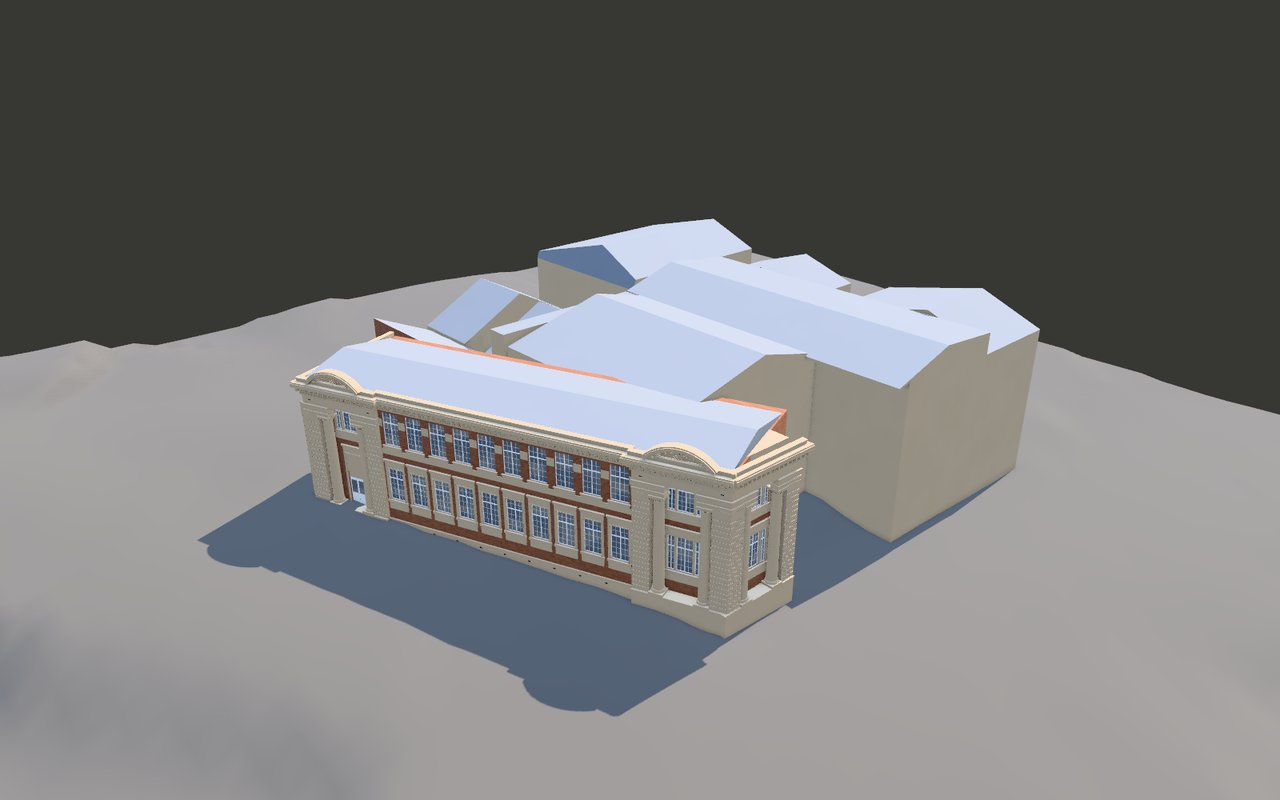
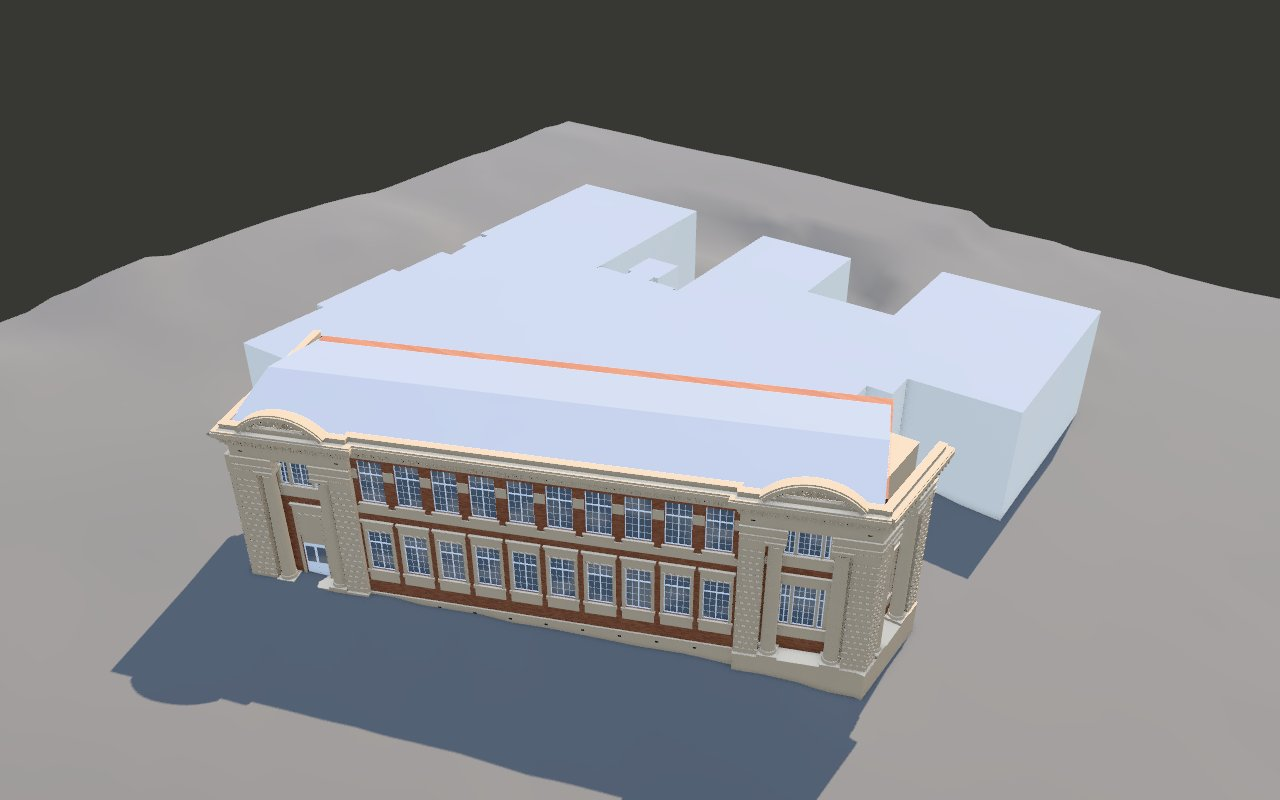
Put Old Choral Hall's street range on the site in place of block 104
site: true, and place writes it; also stays empty (95.5% of block 104 under the model, no
other block at all). roofGrey is a roof in LIGHT_ROLE. The landmark's README, CONTRACT and
ART_BIBLE say what is drawn in detail (the range) and what is the map's estimated block (the
rest), with the numbers of refine compare; two of its renders are taken again with the rest as
the map's block. The README's Known limitations, landmarks section, sources table and What's
new, the CHANGELOG, and About's words (brick and painted render; a building under works drawn in
detail only where the photographs show it as it stands) say the same.

diff --git a/src/scene/landmarks.ts b/src/scene/landmarks.ts
@@ -66,6 +66,7 @@ export interface LightMaterials {
 const LIGHT_ROLE: Record<string, keyof LightMaterials> = {
   roof: "roof",
   roofPale: "roof",
+  roofGrey: "roof",
   glass: "glass",
   glassPale: "glass",
   iron: "openings",

diff --git a/landmarks/old-choral-hall/README.md b/landmarks/old-choral-hall/README.md
@@ -3,27 +3,30 @@
 Old Choral Hall (building 104 of the University of Auckland's campus map), at the corner of Symonds
 Street and Grafton Road, drawn in three.js from code alone and sized by the LINZ 2024 LiDAR, by a lead
 agent and a team of agents (October 2026). Every source shows the building during building works (see "The sources: works in
-progress"), except the panoramas of 2022-09 of its south-west range. So that range, with its two end
-pavilions, is drawn in detail as those panoramas show it, and the rest of the building plainly, at
-the LiDAR's sizes, with no windows or ornament. The kit, the pipeline and the viewer are shared by
-every landmark: [`../README.md`](../README.md).
+progress"), except the panoramas of its south-west range on Symonds Street from before the works
+(2022-09) and after them (2024-10). So only that range, with its two end pavilions, is drawn in
+detail as those panoramas show it. The rest of the building keeps the campus map's estimated block
+until the works end: the maintainer's choice of 2026-10-23 (see "On the site"). The kit, the
+pipeline and the viewer are shared by every landmark: [`../README.md`](../README.md).
 
 - Look at it: `http://localhost:8765/landmarks/pipeline/viewer/index.html?landmark=old-choral-hall&view=orbit`
-  with the repository root served on port 8765. It is not on the site.
+  with the repository root served on port 8765. The site draws it in place of block 104.
 - Run its pipeline: `landmarks/pipeline/run.sh old-choral-hall [stage ...]`.
 
 | File | What it is |
 | --- | --- |
-| `config/old-choral-hall.json` | the building (104), the LiDAR and aerial tiles, the frame, the ground and the door, the eleven Street View panoramas (`streetview.pano_ids`), the viewer's light |
-| `placement.json` | where it stands on the campus map (written by the `place` stage); not on the site |
-| `model.js` | assembles the parts: `southwest`, `massing` |
-| `parts/` | one file per part (`southwest.js`: the south-west range and its pavilions; `massing.js`: the rest, plainly) and `common.js` (the sizes measured in the LiDAR) |
+| `config/old-choral-hall.json` | the building (104), `site: true`, the LiDAR and aerial tiles, the frame, the ground and the door, the eleven Street View panoramas (`streetview.pano_ids`), the viewer's light |
+| `placement.json` | where it stands on the campus map (written by the `place` stage); on the site |
+| `model.js` | assembles the parts: `southwest`, `rest` |
+| `parts/` | one file per part (`southwest.js`, `southwest_range.js`, `southwest_kit.js`: the south-west range and its pavilions, in detail; `rest.js`: the rest, as the campus map's estimated block) and `common.js` (the range's frame and the footpaths, measured in the LiDAR) |
 | `docs/` | the rules the agents worked to: `CONTRACT.md`, `ART_BIBLE.md` |
 | `landscape.js` | the ground round it, for the viewer only: the LiDAR's ground on a 2.5 m grid |
 
 Renders of the model (no photograph): [`docs/landmarks/old-choral-hall-symonds.jpg`](../../docs/landmarks/old-choral-hall-symonds.jpg)
 (the south-west range from Symonds Street), [`-corner.jpg`](../../docs/landmarks/old-choral-hall-corner.jpg)
-(the corner pavilion) and [`-above.jpg`](../../docs/landmarks/old-choral-hall-above.jpg).
+(the range from off the corner, the corner pavilion at the right) and
+[`-above.jpg`](../../docs/landmarks/old-choral-hall-above.jpg) (the range, and the rest as the map's
+block behind it).
 
 ## The frame
 
@@ -64,12 +67,59 @@ cream dressings between two cream pavilions with giant columns; and in 2024-10 (
 pavilion and the range stand restored, out of their scaffolds, as they were. The LiDAR measured that
 range's roof and parapet (a scaffold deck stood 1.7 m out from the parapet in May 2024, classed as
 vegetation), and its plan and parapet agree with those panoramas. That range is drawn in detail; the
-rest is drawn plainly, as the rules say for what no photograph shows.
+rest keeps the campus map's estimated block (see "On the site").
 
 **What would let the rest be drawn**: Google panoramas on Grafton Road taken after the works (newer
 than 2024-08), for the street front and its look; and, for the roofs, LiDAR flown after the works
 (another LiDAR set is a new data source, for the maintainer). With newer panoramas alone the walls
 could be drawn and checked, but the roofs of the wrapped blocks would stay unmeasured.
+
+## On the site: the street range only (2026-10-23)
+
+The maintainer chose to put on the site now only the south-west range on Symonds Street, the part
+that panoramas show before the works (2022-09) and after them (2024-10). How to draw the whole
+building is the maintainer's to decide later. So the model is two parts:
+
+- **`southwest`**: the range and its two pavilions as round 1 drew them (below), at the measured
+  sizes.
+- **`rest`** (`parts/rest.js`): the rest of building 104 as the campus map draws it. Its footprint is
+  block 104's outline in `public/data/campus.json` (the config's `building.outline`), taken into the
+  view frame through `placement.json`, less the part on the range's side of the range's inner wall
+  (x' ≤ −13.0 in the range's frame: the range and its corner pavilion stand wholly there, and the
+  map's outline runs up to 3 m beyond the range's face toward Symonds Street). Its top is flat and
+  stands where the map's block top stands: the map draws block 104 as 2 storeys of 3.6 m (7.2 m,
+  `heightSource` "floor-count", `src/shared/massing.ts`) on its footing (`terrain.ts`: the DEM at
+  the outline's middle, 38.60 m), so 45.80 m, which is y 8.97 over the DEM at the door (36.83 m).
+  Its walls are plain and go down to y −2.0, below the DEM everywhere under it (its lowest is
+  y −1.41). Nothing in it comes from the LiDAR or the photographs: the scaffold era's roofs, heights
+  and shapes stay out. Round 1's LiDAR-measured rest (`parts/massing.js`, commit 83c449d) is not
+  drawn.
+- **Its finish.** In the walker views the rest's walls are `plain`: no texture and no shader, in the
+  map's own wall colour for a teaching building by day (`0xfaf1dc`). That is the plainest finish
+  that is honest: it claims no surface, as the map's block claims none, where cream render or brick
+  would claim one that no photograph shows as it stands. Its flat roof is `roofGrey`, the roofs'
+  grey in the 2023 aerial. On the map the light form draws both in the map's colours (`roofGrey` is
+  a roof in `LIGHT_ROLE`, `src/scene/landmarks.ts`).
+
+What this gives (2026-10-23, against round 1):
+
+- From above, the model covers 95.5% of block 104 on a 0.5 m grid (the 4.5% it does not cover is
+  on the range's side of the map's outline, most of it beyond the range's face), and no other block
+  of the campus map at all (136 Chiller: 0%), so `building.also` stays empty.
+- The range's heights are round 1's (below), against the LiDAR's points over the range without the
+  plane trees' crowns: parapet 14.30 m against 14.39 (the median along its outer edge), ridge 15.10
+  against 15.15 (the median in a 1 m band along it). The model's highest point, 15.50 m, is the
+  pavilions' pediments, sized from the photographs: over them the LiDAR has only the plane trees'
+  crowns, 14.3 to 24 m. The rest's top is y 8.97, the map's block top to 0.01 m.
+- 19,413 triangles in 7 draw calls (`render`, `paint`, `brick`, `void`, `glassPale`, `roofGrey`,
+  `plain`); the rest is 119 of them.
+- Against the photographs (`refine compare`): the nine views of 2022-09, which show the range, keep
+  their refined cameras and an IoU of 0.58 to 1.0 (mean 0.883); C1kG (2024-10) falls from 0.72,
+  0.83 and 0.98 to 0.38, 0.61 and 0.62, because behind the corner pavilion it sees the wrapped
+  middle and north-east blocks, up to 16 m, where the map's block is 9 m high. The luma median of
+  the building in the nine 2022-09 views is 126 in the photographs and 134 drawn. The Grafton Road
+  views of 2024-08 show the wraps, which the map's block does not match: over all 33 views the mean
+  IoU is 0.667, and the refine stage now corrects 4 panoramas' cameras, not 7.
 
 ## The first rough model (superseded)
 
@@ -133,7 +183,8 @@ rounds; the lead finished the round.
   north-west end.
 - **The rest** (`parts/massing.js`; the rest agent): every other block fitted to the LiDAR's roof
   planes (rms 0.02-0.05 m), plainly: no windows, no ornament. The scaffold decks of May 2024 are left
-  out (the 11.2 m deck in the street front's recess, lifts along the back).
+  out (the 11.2 m deck in the street front's recess, lifts along the back). Not drawn since
+  2026-10-23 (see "On the site"); the file is in commit 83c449d.
 - **The look** (the lead): brick and cream render as shaders in the kit, measured against the
   2022-09 views in shade; the sun of those panoramas (config `light`); and, for the viewer only, the
   LiDAR's ground (`landscape.js`), so that the plinth meets the footpaths, which rise about 3 m from

diff --git a/README.md b/README.md
@@ -40,14 +40,15 @@ It is built to answer two questions a student actually has:
 
 ## What's new
 
+- **2026-10-23:** near Old Choral Hall the map draws its range on Symonds Street in detail, in red
+  brick and cream render from a walker's height; the rest of the building, under building works,
+  keeps the map's estimated block.
 - **2026-10-22:** near Old Government House the map draws it in detail, in painted timber from a
   walker's height; the floor of Nicholls Lane ECE, an early childhood centre, is left blank, as every
   childcare centre's is; Firefox 93 to 113 show the Clock Tower as blocks.
 - **2026-10-21:** near the Clock Tower the map draws it in detail, from code and to its measured
   sizes: in the map's colours on the map, and in stone, glass and slate from a walker's height. A
   click still opens its floors.
-- **2026-10-19:** on a slow screen a walker view that stands still is drawn once, not again and
-  again.
 
 Everything, with its pull request, is in the [changelog](CHANGELOG.md).
 
@@ -226,8 +227,20 @@ of 0.95, and in 95% of the cells its height is within 0.5 m of the LiDAR's.
 | ![Old Government House from its lawn, the garden front, drawn from code](docs/landmarks/old-government-house-front.jpg) | ![The south-east end and the garden front, drawn from code](docs/landmarks/old-government-house-end.jpg) |
 | ![Old Government House on the map, drawn from code in the map's colours](docs/landmarks/old-government-house-map.jpg) | ![Old Government House from its lawn, through the walker's eyes](docs/landmarks/old-government-house-eyes.jpg) |
 
+The third is Old Choral Hall (104), at the corner of Symonds Street and Grafton Road. Every source
+shows it during building works, so only its range on Symonds Street is drawn in detail: ten bays of
+red brick with cream dressings between two pavilions with giant columns, as panoramas show it before
+the works and after. Seen from the three panoramas of 2022-09, its outline covers the building's
+with an IoU of 0.58 to 1.0. The rest of the building keeps the map's estimated block until the
+works end.
+
+| | |
+| --- | --- |
+| ![Old Choral Hall's range on Symonds Street, drawn from code](docs/landmarks/old-choral-hall-corner.jpg) | ![Old Choral Hall from above: the range in detail, the rest as the map's estimated block](docs/landmarks/old-choral-hall-above.jpg) |
+
 The site draws each landmark in place of its buildings' blocks (the Clock Tower in place of buildings
-105 and 105S, its south range; Old Government House in place of 102) when the camera comes near: on
+105 and 105S, its south range; Old Government House in place of 102; Old Choral Hall in place of
+104) when the camera comes near: on
 the map in the map's colours, and from a walker's height in its own materials on a computer with a
 graphics card. The blocks still answer a click and open on their floors. The
 geometry and the textures are made in a worker, the first time they are wanted, so that the page
@@ -398,8 +411,8 @@ an estimate of 3.6 m a floor, and its windows and roof rims are drawn by rule.
 | [OpenStreetMap](https://www.openstreetmap.org/copyright) via the Overpass API | Surrounding buildings, streets, paths, parks, trees | © OpenStreetMap contributors, [Open Database License 1.0](https://opendatacommons.org/licenses/odbl/1-0/). The snapshot in `data/raw/osm/` and the derived `public/data/context.json` are under the same licence. |
 | [University of Auckland Calendar 2026](https://www.auckland.ac.nz/en/about-us/about-the-university/the-university/official-publications/university-calendar/current-calendar.html) | Semester dates, breaks, holidays; list of subject codes | © University of Auckland. Dates and codes are quoted as facts with a link to the source. |
 | [LINZ 8 m Digital Elevation Model (2012)](https://data.linz.govt.nz/layer/51768-nz-8m-digital-elevation-model-2012/), via the [AWS Terrain Tiles](https://registry.opendata.aws/terrain-tiles/) | The height of the ground | New Zealand terrain data © Land Information New Zealand and the New Zealand Government, [CC BY 3.0 NZ](https://creativecommons.org/licenses/by/3.0/nz/). The tiles also hold SRTM and GMTED2010 data (U.S. Geological Survey) and ETOPO1 (U.S. NOAA) at the coast. The tiles in `data/raw/terrain/` and the derived `public/data/terrain/` are under the same terms. |
-| [Auckland Part 1 LiDAR point cloud (2024)](https://doi.org/10.5069/G9HH6H8T), tiles `CL2_BA32_2024_1000_*`, captured by Woolpert for Regional Software Holdings Limited and distributed by OpenTopography and LINZ | The sizes of the Clock Tower (buildings 105 and 105S) and Old Government House (102), measured for their models in `landmarks/clocktower/` and `landmarks/old-government-house/` | Sourced from LINZ and licensed by Regional Software Holdings Limited for re-use under [CC BY 4.0](https://creativecommons.org/licenses/by/4.0/) ([LINZ's attribution page](https://www.linz.govt.nz/products-services/data/licensing-and-using-data/attributing-elevation-or-aerial-imagery-data)). Only the measured sizes are published, in the landmark's config and `parts/common.js`; the tiles stay on the computer that fetched them. |
-| Google Street View, through the Map Tiles API | Photographs the models of the Clock Tower and Old Government House were compared with while they were drawn | © Google. Used as references only: never published, traced or sampled, and kept on the computer that fetched them. |
+| [Auckland Part 1 LiDAR point cloud (2024)](https://doi.org/10.5069/G9HH6H8T), tiles `CL2_BA32_2024_1000_*`, captured by Woolpert for Regional Software Holdings Limited and distributed by OpenTopography and LINZ | The sizes of the Clock Tower (buildings 105 and 105S), Old Government House (102) and the range of Old Choral Hall (104) on Symonds Street, measured for their models in `landmarks/clocktower/`, `landmarks/old-government-house/` and `landmarks/old-choral-hall/` | Sourced from LINZ and licensed by Regional Software Holdings Limited for re-use under [CC BY 4.0](https://creativecommons.org/licenses/by/4.0/) ([LINZ's attribution page](https://www.linz.govt.nz/products-services/data/licensing-and-using-data/attributing-elevation-or-aerial-imagery-data)). Only the measured sizes are published, in the landmark's config and `parts/common.js`; the tiles stay on the computer that fetched them. |
+| Google Street View, through the Map Tiles API | Photographs the models of the Clock Tower, Old Government House and Old Choral Hall were compared with while they were drawn | © Google. Used as references only: never published, traced or sampled, and kept on the computer that fetched them. |
 | [Open-Meteo](https://open-meteo.com/) | Current weather in Auckland (temperature, cloud, rain, wind), fetched by the visitor's browser | [CC BY 4.0](https://open-meteo.com/en/licence) |
 | ["Animated Human" by Quaternius](https://opengameart.org/content/animated-human-low-poly) | The walker's body and its idle, walk and run, in `public/models/walker.glb` | [CC0 1.0](https://creativecommons.org/publicdomain/zero/1.0/), public domain. Downloaded once, on 2026-10-16. |
 
@@ -417,8 +430,14 @@ If you represent the University and would like something changed or removed, ple
 - **Building heights are estimated and windows are drawn by rule.** The ground's heights come from
   the LINZ 8 m elevation model, drawn from contours: smooth, peaks a few metres low. A building stands
   at the ground under its middle, with a footing of up to 4 m on a slope. The Clock Tower (105 and
-  105S) and Old Government House (102) are the exceptions: their models are drawn to sizes measured
-  from LiDAR.
+  105S), Old Government House (102) and the range of Old Choral Hall (104) on Symonds Street are the
+  exceptions: their models are drawn to sizes measured from LiDAR.
+- **Only Old Choral Hall's range on Symonds Street is drawn in detail.** Every source shows the
+  building during building works: the LiDAR of May 2024 has scaffold decks over its north-east
+  blocks, and the newest Street View panoramas show them wrapped. Only the south-west range and its
+  two pavilions are seen as they stand, before the works (2022-09) and after them (2024-10). The
+  rest of the building keeps the map's estimated block (two storeys, flat-topped, plain walls) until
+  the works end, so it is lower than the building is.
 - **Old Government House is seen in only two photographs.** Trees hide it from the other Street View
   panoramas near it, and the two see the upper storey of its south-east end. Its sizes and roofs
   come from the LiDAR. What no photograph shows is drawn plainly or after the parts the photographs

diff --git a/landmarks/old-choral-hall/docs/CONTRACT.md b/landmarks/old-choral-hall/docs/CONTRACT.md
@@ -6,13 +6,18 @@ shared viewer, `../pipeline/viewer/index.html`. No external 3D models or image t
 and texture is generated in code. Photographs are **references only**; nothing is traced or sampled
 from them into the model.
 
-## What this round draws, and why only that
+## What is drawn, and why only that
 Every source shows the building during works (README.md, "The sources: works in progress"): the LiDAR was flown
 on 18 May 2024 with the north-east blocks scaffolded and wrapped, and the Grafton Road panoramas of
 2024-08 show the wraps. Only the **south-west range and its two end pavilions** are seen as they are,
-in panoramas of 2022-09 taken before the works, and the LiDAR measured them unwrapped. So this round
-draws that range in detail, and **everything else plainly** at the LiDAR's sizes: no windows, no
-ornament where no photograph shows a face.
+in panoramas of 2022-09 taken before the works and of 2024-10 after them, and the LiDAR measured them
+unwrapped. So that range is drawn in detail (`southwest`). **Everything else is the campus map's
+estimated block** (`rest`), by the maintainer's choice of 2026-10-23: block 104's outline from
+`public/data/campus.json` less the range's side, flat-topped at the map's block top, plain walls.
+Nothing measured from the LiDAR or seen in a photograph outside the range goes into `rest`. Round 1
+drew the rest at the LiDAR's sizes (`parts/massing.js`, in the history at 83c449d); it is not drawn,
+because those sizes are partly the scaffolds'. How to draw the whole building after the works is the
+maintainer's to decide.
 
 ## Frame and sizes
 - View frame, metres: **x** to the right as seen from Grafton Road on the south-east, **y** up from
@@ -21,7 +26,12 @@ ornament where no photograph shows a face.
 - `parts/common.js` (the lead's) holds the shared sizes: `GROUND` (the footpaths: the front falls from
   +0.8 to −0.85 m along x; the south-west footpath rises from +1.0 m at the corner to +2.9 m at the
   back), `SW` (the south-west range, turned 22.25° from the frame, with `swMatrix()` and `swPoint()`
-  to draw it in its own frame x', z'), `FRONT`, `RANGES`, `NE`, `BACK`.
+  to draw it in its own frame x', z'). The rest's LiDAR sizes of round 1 (`FRONT`, `RANGES`, `NE`,
+  `BACK`) are left out with it.
+- `parts/rest.js` holds the map's block: `OUTLINE` (building 104's outline in `campus.json`, taken
+  into the view frame through `placement.json`), `MAP_BLOCK` (its footing 1.77 m above the DEM at the
+  door, and its 7.2 m: 2 storeys of 3.6 m) and `TOP` (y 8.97). If the door or the placement moves,
+  work `OUTLINE` and `MAP_BLOCK.base` out again.
 - The LiDAR: `data/old-choral-hall_pts.npy` (x, y, z, class in local NZTM metres; class 6 building,
   2 ground, 5 high vegetation). Its frame: `data/old-choral-hall_frame.json` (`centre`; `axis` = −x;
   `toStreet` = +z; ground 37.7). Beware: along the south-west side the plane trees' crowns, 17.5 to
@@ -65,13 +75,14 @@ ornament where no photograph shows a face.
 | --- | --- |
 | lead | `model.js`, `parts/common.js`, `config/`, `docs/`, `README.md`, the look (`../kit/materials.js`) |
 | southwest | `parts/southwest.js`, new `parts/southwest_*.js`: the south-west range, its two end pavilions and the corner pavilion's face on Grafton Road |
-| rest | `parts/massing.js`, new `parts/massing_*.js`: everything else (the gabled ranges, the north-east wing, the blocks behind, the low block in the recess), plainly |
+| rest | `parts/rest.js`: everything else, as the campus map's estimated block until the works end; a later round replaces this file |
 
 - `../kit/` and `../pipeline/` are shared by every landmark: do not edit them; ask the lead. The
   `Builder` (`../kit/gothic.js`) merges everything into one mesh per material name. Names for this
   building: `brick` (red brick with pale joints), `render` (cream painted render), `paint` (white
-  frames and bars), `glassPale` (panes), `roofGrey` (mid-grey roofs), `void` (dark openings). A name
-  the kit does not have makes the part fail.
+  frames and bars), `glassPale` (panes), `roofGrey` (mid-grey roofs), `void` (dark openings), `plain`
+  (the rest's walls: no texture, no shader, the map's wall colour). A name the kit does not have makes
+  the part fail.
 - Parts are added to `model.js` by the lead; tell the lead the name and file of a new part.
 
 ## Budget (tier 1: the site runs in a browser, phones too)
@@ -85,7 +96,8 @@ ornament where no photograph shows a face.
 - Determinism: same code, same picture. Seeded randomness only, no `Math.random`, no `Date`.
 - Real sizes first: the LiDAR is the truth for positions and heights; the photographs for what the
   surfaces look like. Where they disagree, say so in the report.
-- What no photograph and no measurement shows is drawn plainly, not invented.
+- What no photograph and no measurement shows is drawn plainly, not invented. Where every source shows
+  the building during works, the map's estimated block stands in for it (`rest`).
 - Do not commit; the lead commits after reviewing.
 - Finish with a short report: what you built, files, numbers (triangles, build ms), before/after
   strips (paths), measurements, what still differs and what you would do next.

diff --git a/landmarks/old-choral-hall/docs/ART_BIBLE.md b/landmarks/old-choral-hall/docs/ART_BIBLE.md
@@ -5,8 +5,8 @@ reads as the same building as in the Street View panoramas of 2022-09, before th
 its sizes from the LiDAR. Look at the photographs yourself, at full size: `nAxE…_*.jpg` (the range and
 its north-west pavilion), `Uype…_*.jpg` (the range and the corner pavilion at Grafton Road),
 `e8T_…_*.jpg`, and `C1kG…` (2024-10: the corner pavilion restored, out of its scaffold) for the corner. This page says what matters most, and only what they
-show. The rest of the building is drawn plainly: no photograph shows it as it stands (README.md, "The
-sources: works in progress").
+show. The rest of the building keeps the campus map's estimated block: no photograph shows it as it
+stands (README.md, "The sources: works in progress").
 
 ## The south-west range (what nAxE and Uype show)
 - **Two storeys of red brick with cream dressings**, Edwardian classical. A long range of about a dozen
@@ -26,10 +26,17 @@ sources: works in progress").
   between the columns and the pilasters.
 - Plane trees stand along the footpath and hide parts of the range: they are not part of the model.
 
-## The rest (drawn plainly)
-- The middle ranges, the north-east wing and the blocks behind: walls and gabled roofs at the LiDAR's
-  sizes, in plain cream render and pale grey roofs, with no windows or ornament: no reference shows
-  their faces as they are (2024-08: wrapped and scaffolded; the 2023 aerial shows grey hipped roofs).
+## The rest (the map's estimated block)
+- The middle ranges, the north-east wing and the blocks behind are not drawn as they look: every source
+  shows them during the works (2024-08: wrapped and scaffolded; the LiDAR of May 2024: the scaffolds'
+  temporary roofs). Until the works end they keep the campus map's block (maintainer, 2026-10-23):
+  block 104's outline less the range's side, flat-topped where the map's block top is (y 8.97), plain
+  walls with no windows or ornament.
+- Its finish says that it is an estimate: walls in `plain` (no texture and no shader, so no surface is
+  claimed, in the map's own wall colour for a teaching building by day), the flat roof in `roofGrey`
+  (the roofs' grey in the 2023 aerial). On the map the light form draws both in the map's colours.
+- The range's inner side above the rest's roof shows the range's brick mass: in the building the
+  taller middle range stands against it there.
 
 ## The light (match the 2022-09 photographs)
 - A spring morning, the sun high in the north-east (in nAxE it stands almost straight beyond the
@@ -43,6 +50,7 @@ sources: works in progress").
 - `render`: cream painted render for columns, pilasters, bands, architraves, cornices and parapets.
 - `paint`: the white-grey window frames and glazing bars; `glassPale` for the panes.
 - `roofGrey`: the roofs, mid-grey metal as in the 2023 aerial (luma about 110-150); `void` for dark openings and doorways.
+- `plain`: the rest's walls (the map's estimated block): no texture, no shader.
 
 ## Never
 - Nothing traced or sampled from the photographs (no projected textures, no image files).

diff --git a/CHANGELOG.md b/CHANGELOG.md
@@ -14,6 +14,22 @@ A change to what the site does or shows adds its line here, and the README's
   the Classes API key arrives, so that what the timetable and the catalogue each supply can be
   settled with both in hand.
 
+## 2026-10-23
+
+### Added
+
+- **Old Choral Hall's range on Symonds Street drawn in detail.** Near Old Choral Hall (building
+  104) the map now draws its south-west range from code, to sizes measured from the LiDAR survey:
+  ten bays of red brick with cream dressings between two pavilions with giant columns in antis,
+  rusticated pilasters and arched pediments, and the corner pavilion's face on Grafton Road. Every
+  source shows the rest of the building during building works, so the rest keeps the map's
+  estimated block: two storeys, flat-topped, plain walls. On the map it all has the map's colours.
+  From a walker's height the range is drawn in brick and cream render, with glass and grey roofs, on
+  a computer with a graphics card, and in the map's colours on phones and on computers without one.
+  Its block still answers a click and opens on its floors. About now names brick and painted render
+  among the landmarks' materials, and says that a building under works is drawn in detail only
+  where the photographs show it as it stands (#PR).
+
 ## 2026-10-22
 
 ### Added

diff --git a/landmarks/README.md b/landmarks/README.md
@@ -176,9 +176,9 @@ needs:
   `src/i18n/locales/*.json`), which name their materials ("such as stone, painted timber, glass
   and slate"): change them if the new building is of another;
 - for each material of the model that `LIGHT_ROLE` in `src/scene/landmarks.ts` does not list yet
-  (it lists `roof`, `roofPale`, `glass`, `glassPale`, `iron` and `void`) but that is a roof, a pane
-  or an opening, its part there. Every other material is drawn as wall in the light form, so on
-  the map a roof in a new material takes the wall colour until it is listed;
+  (it lists `roof`, `roofPale`, `roofGrey`, `glass`, `glassPale`, `iron` and `void`) but that is a
+  roof, a pane or an opening, its part there. Every other material is drawn as wall in the light
+  form, so on the map a roof in a new material takes the wall colour until it is listed;
 - in the README, the building in "Known limitations" (the buildings whose sizes are measured, not
   estimated) and, in the sources table, the LiDAR's and Street View's "Used for";
 - a look at it on the map and from a walker's height, and the speed numbers (`docs/standards.md`,
